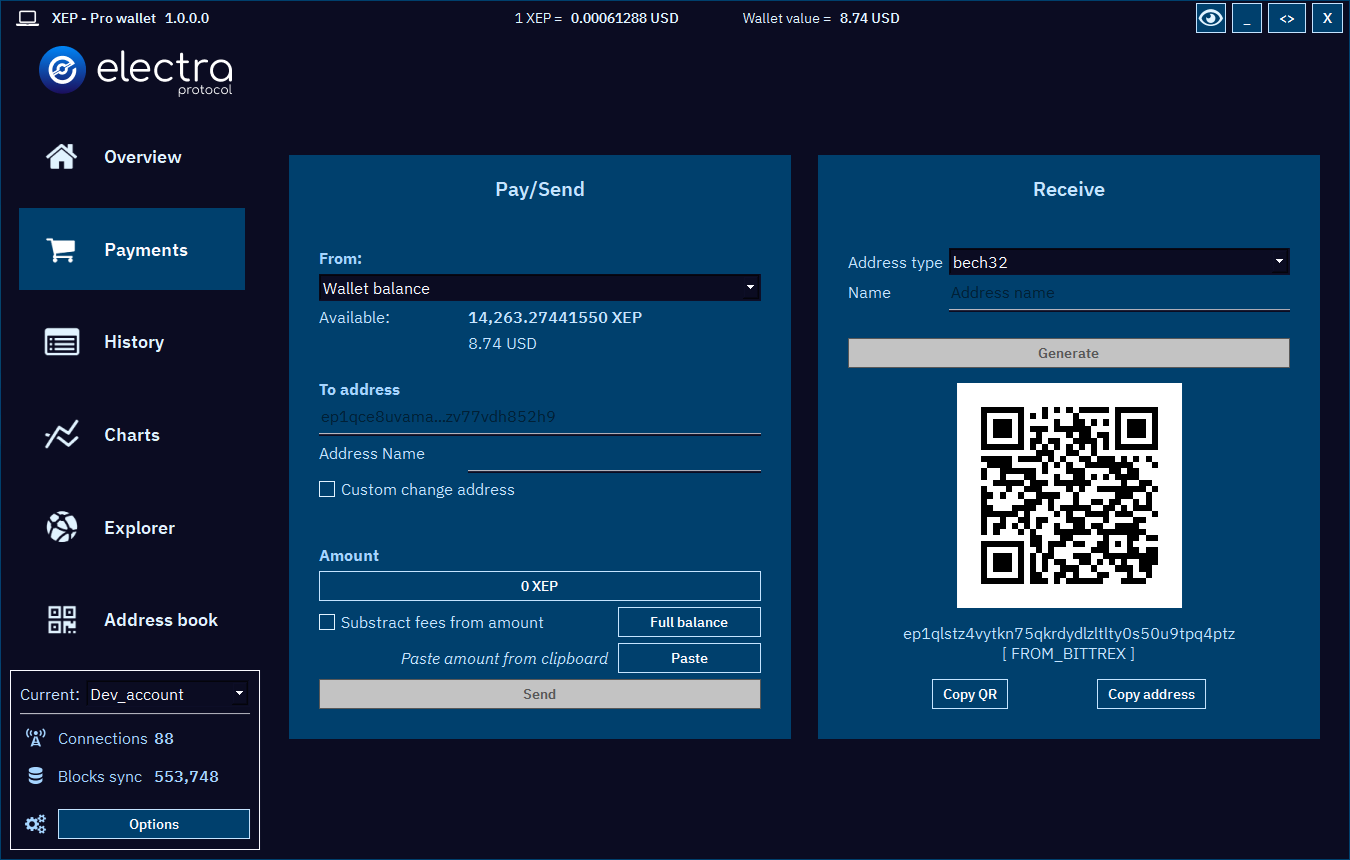
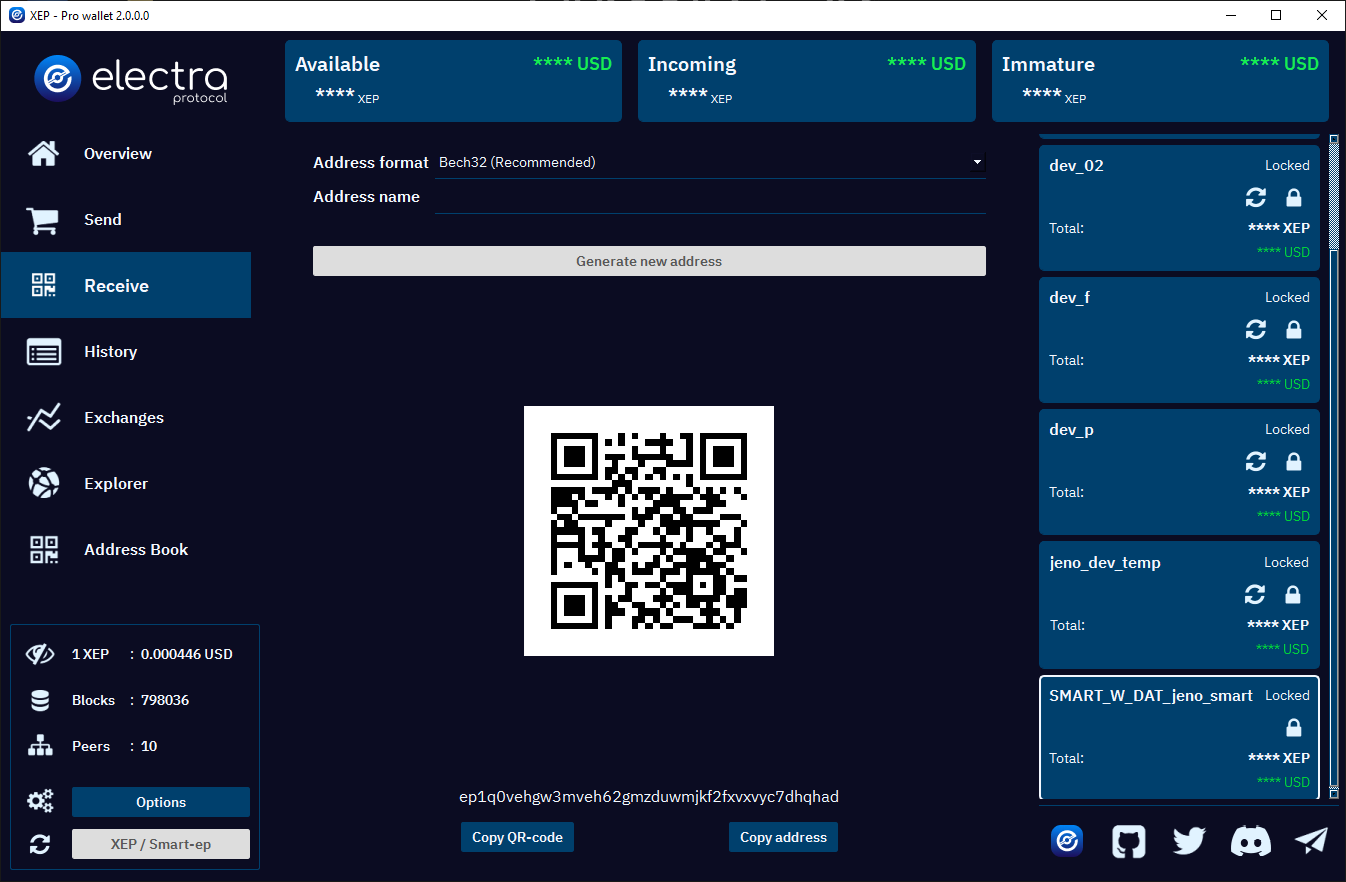
client-2.0.0.0

diff --git a/README.md b/README.md
@@ -6,13 +6,13 @@ XEP-Pro wallet is a client of Electra Protocol blockchain built in C++ with [Qt]
 <div align="center">
   <br />
   <h3 align="center">Download now</h3>
-  <a href="https://github.com/ElectraProtocol/XEP-Pro-wallet/releases/download/client-1.0.0.3/XEP-Pro-setup-mac.dmg">
+  <a href="https://www.electraprotocol.com/wallets/#desktop">
     <img src="icons/apple.png" width="100" height="100">
   </a>
-  <a href="https://github.com/ElectraProtocol/XEP-Pro-wallet/releases/download/client-1.0.0.3/XEP-Pro-setup.exe">
+  <a href="https://www.electraprotocol.com/wallets/#desktop">
     <img src="icons/windows.png" width="100" height="100">
   </a>
-  <a href="https://github.com/ElectraProtocol/XEP-Pro-wallet/releases/download/client-1.0.0.3/XEP-Pro-setup-linux.run">
+  <a href="https://www.electraprotocol.com/wallets/#desktop">
     <img src="icons/linux.png" width="100" height="100">
   </a>
   <br />
@@ -42,9 +42,9 @@ XEP-Pro wallet is a client of Electra Protocol blockchain built in C++ with [Qt]
 
 - Multi-wallets management, monitor the events of all your wallets in real time.
 - Wallet quotation in 48 fiat currencies
-- Charts view
+- Exchanges view
 - Blockchain explorer
 - Automatic update
 - Light/Dark theme
 - Dedicated address book management
-- Built-in backup import
+- Built-in backup and import wallet
